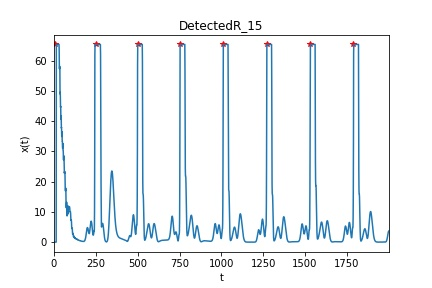
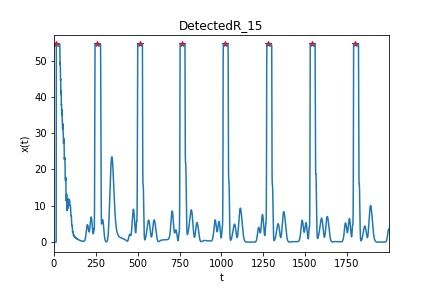
fix markers firstbeat, decrease avgmult with thresholding, update plots

diff --git a/QRS_Detector.py b/QRS_Detector.py
@@ -15,7 +15,7 @@ TIPS:
 complex
 """
 
-def qrs_detect(raw_signal, win_size=15, save=False,
+def qrs_detect(raw_signal, win_size=25, save=False,
                enable_noise_filter=True, plotlimit=2000):
     """
 
@@ -32,6 +32,9 @@ def qrs_detect(raw_signal, win_size=15, save=False,
     contains the corresponding RR intervals
 
     """
+    print("Defining QRS with win_size %s and plotlimit %s" % (win_size, plotlimit))
+    if save:
+        print("-> Plots to be saved..")
     raw_signal = np.array(raw_signal)
     if enable_noise_filter:
         noise_filtered_signal = remove_noise(raw_signal)
@@ -39,41 +42,46 @@ def qrs_detect(raw_signal, win_size=15, save=False,
         plot_before_after(raw_signal, noise_filtered_signal,
                           title = "Before_After_Filter",
                           save=save, limit=plotlimit)
-    
+        print("..Noise Filtered")
         diff = differentiate(noise_filtered_signal)
     else:
+        plot(raw_signal, title="raw_signal", limit=plotlimit)
         diff = differentiate(raw_signal)
-        
     plot(diff, title="Differentiated Signal", limit=plotlimit)
-
+    print("..Signal Differentiated")
     sqrd = square(diff)
     plot(sqrd, title="Squared Signal", limit=plotlimit)
+    print("..Signal Squared")
 
     smoothed = smooth(sqrd, win_size)
     plot(smoothed, title="Smoothed Signal", limit=plotlimit)
+    print("..Signal smoothed")
 
-    thresholded, threshold1 = threshold(smoothed)
+    thresholded, threshold1 = threshold(smoothed, avg_mult=1.25)
     plot(thresholded, title="Thresholded Signal", limit=plotlimit)
+    print("..Signal thresholded")
 
-    rr_intervals = rr_define(thresholded)
+    rr_intervals = rr_define(thresholded, discard_less_than=100)
     plot(rr_intervals*1000, title="RR", sampling_rate=1,
          xlabel='Beat Number', ylabel='time(ms)',
          limit=rr_intervals.shape[0], save=save)
-    
-    r_markers = create_markers(rr_define(thresholded[:plotlimit]))
+    print("..RR Intervals Defined")
+
+    r_markers = create_markers(thresholded[:plotlimit])
+    print("..R-Wave Markers set")
     final_figure_title = "DetectedR_" + str(win_size)
     if not enable_noise_filter:
         final_figure_title = "Unfiltered_" + str(win_size)
     plot(thresholded, title = final_figure_title , sampling_rate=256,
          xlabel="t", ylabel="x(t)", markers=r_markers, save=save,
          limit=plotlimit)
+    print("R-Wave markers applied")
 
     return rr_intervals
 
-def create_markers(rr_intervals, sampling_rate=256):
-
-    r_markers = rr_intervals*256
-    first_might_miss_beat = np.argmax(r_markers)
+def create_markers(thresholded, sampling_rate=256):
+    r_markers = rr_define(thresholded, discard_less_than=100)*256
+    first_might_miss_beat = np.argmax(thresholded)
     if first_might_miss_beat not in r_markers:
         tmp = np.zeros((r_markers.shape[0]+1,))
         tmp[0] = first_might_miss_beat
@@ -135,7 +143,7 @@ def smooth(sig, win_size=5):
         # print("sig %s ...... smoothed_signal %s" % (sig[i], smoothed_signal[i]))
     return smoothed_signal
 
-def threshold(sig, avg_mult=1.5):
+def threshold(sig, avg_mult=1.25):
     threshold = np.average(sig)*avg_mult
     # threshold = np.max(sig)*0.7
     thresholded = sig.copy()
